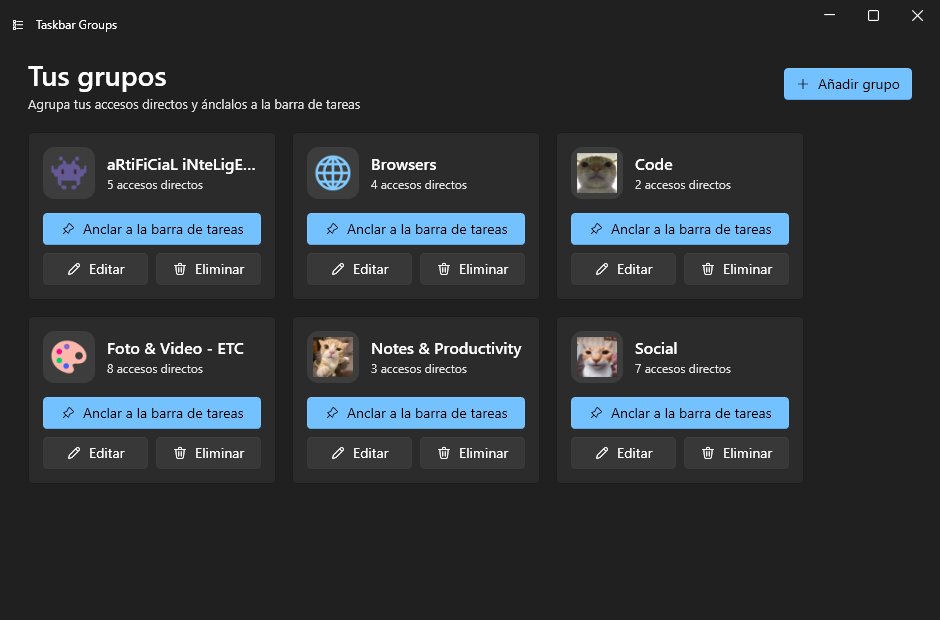
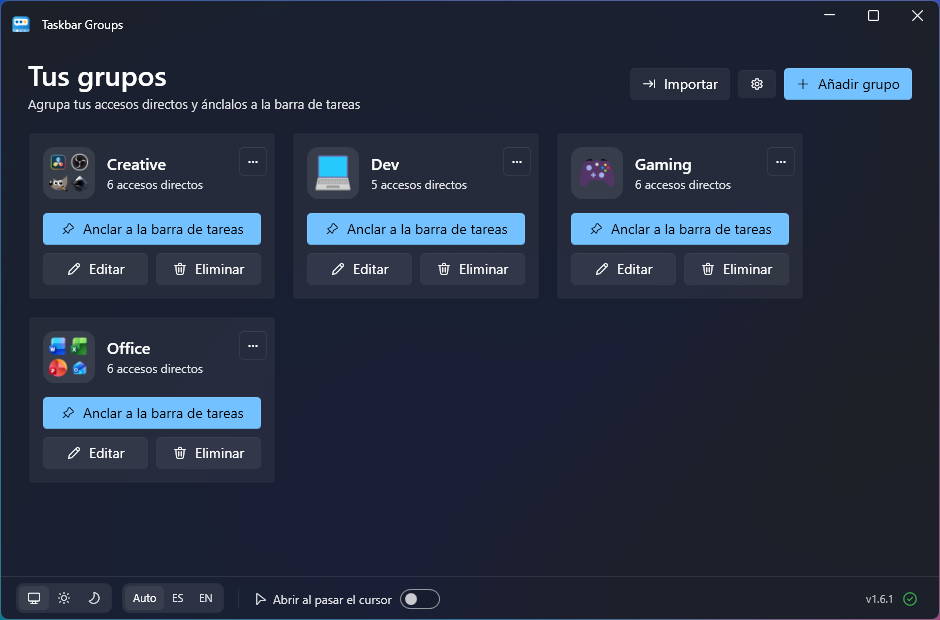
Show the real taskbar in the READMEs
The animation is now a recording of four groups pinned to a real Windows 11 taskbar instead of a drawn one, and the screenshots show the current main window with its quick bar and the group editor with its live preview. The text covers the quick bar, the right-click menu and the offline installer, and no longer sends people to Settings for open on hover.

diff --git a/README.es.md b/README.es.md
@@ -2,13 +2,13 @@
 
 <img src="brand/logo.png" width="128" height="128" alt="Logo de Taskbar Groups Fluent" />
 
-# Taskbar Groups — Fluent
+# Taskbar Groups Fluent
 
 **Agrupa tus accesos directos en un solo icono de la barra de tareas.** Una reescritura moderna en **WPF / .NET 10** de Taskbar Groups, con interfaz Fluent (estilo WinUI 3).
 
 🌍 Español · [English](README.md)
 
-**[tbgf.munito.dev](https://tbgf.munito.dev)** — míralo funcionando
+Web: **[tbgf.munito.dev](https://tbgf.munito.dev)**
 
 <p>
   <a href="https://github.com/Mun1to/TaskbarGroupsFluent/releases/latest">
@@ -26,7 +26,9 @@
   </a>
 </p>
 
-<img src="docs/screenshots/es/panel-layouts.gif" width="800" alt="El panel de un grupo con el cristal de Windows 11, cambiando entre cuadrícula, horizontal, vertical y lista" />
+<img src="docs/screenshots/panel-demo.gif" width="732" alt="Cuatro grupos anclados en una barra de tareas real de Windows 11, abriéndose uno tras otro: cuadrícula, lista, columna vertical y fila" />
+
+<sub>Grabado en una barra de tareas real de Windows 11: cuatro grupos, cada uno con su forma de panel.</sub>
 
 </div>
 
@@ -34,78 +36,69 @@
 
 ## ✨ Qué hace
 
-Taskbar Groups convierte una carpeta llena de apps en **un solo botón de la barra de tareas**. Al pulsarlo se abre un pequeño popup con todas las apps del grupo — así tu barra queda ordenada y tienes todo a un clic.
+Taskbar Groups convierte una carpeta llena de apps en **un solo botón de la barra de tareas**. Al pulsarlo se abre encima un pequeño panel con todas las apps del grupo, así tu barra queda ordenada y tienes todo a un clic.
 
-- 🧩 **Añade cualquier app instalada** — una lista buscable de *todo* lo instalado (apps de escritorio **y** de Microsoft Store), leída directamente del catálogo de apps del shell de Windows. Sin buscar el `.exe` correcto; un botón **Examinar…** cubre lo que no aparezca.
-- 🖼 **Iconos correctos, siempre** — los iconos vienen del mismo pipeline del shell que usa el Menú Inicio (alta resolución, transparentes, UWP y escritorio por igual). Cuando Windows no puede resolver uno —algunas apps Squirrel/Electron como Obsidian o Brave— tira del icono del propio ejecutable, así nunca te queda un icono en blanco.
-- 🎨 **Iconos de grupo personalizados** — sube cualquier imagen y **recórtala y haz zoom** en el editor integrado, o…
-- 😀 **…elige un emoji a color** — pulsa **Emoji** y elígelo como icono del grupo, renderizado nítido y centrado. Sin subir ninguna imagen.
-- 📌 **Ancla a la barra de tareas** — cada grupo se convierte en un botón anclado; al pulsarlo se abre el popup con tus apps.
-- 🪟 **Cristal de Windows 11, con la forma que quieras**: el panel de cada grupo tiene el cristal de verdad de Windows 11 y se abre en cuadrícula, en una fila horizontal, en una columna vertical o como lista, con o sin el nombre de las apps, en tres tamaños de icono y con el nombre del grupo arriba o abajo, con un lápiz para editarlo. El editor del grupo te enseña cómo queda mientras lo cambias.
-- 🔲 **Un icono hecho con las apps del grupo**: con un clic, el icono de la barra se hace con las cuatro primeras apps, y se actualiza solo cuando añades o quitas alguna.
-- 🚀 **Abrirlas todas de golpe**: un botón en el panel abre todas las apps del grupo.
+- 🧩 **Añade cualquier app instalada**: una lista buscable con todo lo instalado, apps de escritorio **y** de Microsoft Store, leída del propio catálogo de apps de Windows. Un botón **Examinar…** cubre lo que no aparezca.
+- 🖼 **Los iconos buenos**: salen del mismo sitio del que los saca el menú Inicio, nítidos y transparentes. Cuando Windows no tiene icono para una app (algunas apps Electron), se usa el del propio ejecutable en vez de un cuadro en blanco.
+- 🎨 **Tu propio icono de grupo**: cualquier imagen, recortada y con zoom en el editor integrado, o un **emoji a color**, o…
+- 🔲 **…un icono hecho con las apps del grupo**: con un clic, el icono de la barra se hace con las cuatro primeras apps, y se actualiza solo cuando añades o quitas alguna.
+- 📌 **Ancla a la barra de tareas**: cada grupo se convierte en su propio botón anclado.
+- 🪟 **Cristal de Windows 11, con la forma que quieras**: el panel de un grupo se abre en cuadrícula, en una fila horizontal, en una columna vertical o como lista, con o sin el nombre de las apps, en tres tamaños de icono y con el nombre del grupo arriba o abajo. El editor te enseña cómo queda mientras lo cambias.
+- 🖱 **Abrir al pasar el cursor**: actívalo en la barra rápida y un grupo se abre con solo dejar el cursor encima de su icono, sin hacer clic. Espera un momento antes de abrir, así cruzar la barra no abre nada sin querer; nunca te quita el teclado de donde estabas escribiendo; y se cierra en cuanto alejas el cursor. Viene apagado, porque deja un pequeño vigilante en la bandeja del sistema.
+- 📋 **Clic derecho en un grupo anclado** para **Abrir todas** y **Editar grupo**.
+- 🚀 **Abrirlas todas de golpe**, desde ese menú o desde el botón de la cabecera del panel.
 - 🗂 **Grupos dentro de grupos**: mete un grupo en otro y se abre en su propio panel.
 - ⚙ **Opciones por app**: cámbiale el nombre a una app dentro del grupo, pásale argumentos o ábrela como administrador.
-- 💾 **Exportar, importar y duplicar**: comparte un grupo en un solo archivo, guarda una copia o duplica uno para empezar otro.
+- 📁 **Apps y carpetas** en el mismo grupo.
+- 💾 **Exportar, importar y duplicar**: comparte un grupo en un solo archivo, guarda una copia o empieza un grupo nuevo a partir de otro.
 - 🔁 **¿Vienes de Taskbar Groups o de AppGroup?** Importa tus grupos de cualquiera de los dos y sigue como estabas.
-- 🖱 **Abrir al pasar el cursor** — actívalo en **Ajustes** y un grupo se abre con solo dejar el cursor encima de su icono, sin hacer clic. Espera un momento antes de abrir, así cruzar la barra no abre nada sin querer; nunca te quita el teclado de donde estabas escribiendo; y se cierra solo en cuanto alejas el cursor. Viene apagado: usa un pequeño vigilante en la bandeja del sistema, que puedes apagar desde ahí o desde Ajustes.
-- 🔄 **Actualización del icono en vivo** — cambia el icono de un grupo anclado y el botón de la barra se refresca solo, con un reinicio limpio del shell que no molesta a tus otros iconos anclados.
-- 📁 **Apps *y* carpetas** en el mismo grupo.
-- 🌍 **Se adapta a tu Windows** — el tema claro/oscuro **y** el color de acento, además del idioma de la interfaz (**español o inglés**), se toman de tu sistema automáticamente. Puedes forzar el idioma con la variable `TBG_LANG`.
-- ⬇ **Instalador de un clic + actualizaciones automáticas** — instala con doble clic; la app comprueba si hay versiones nuevas al abrir y se actualiza sola cuando tú quieras.
+- 🔄 **El icono de la barra sigue tus cambios**: cambia el icono de un grupo anclado y su botón se actualiza. Windows guarda esos iconos en caché, así que el Explorador se reinicia una vez; tus otros iconos anclados se quedan donde estaban.
+- 🌗 **Una barra rápida abajo en la ventana principal**: claro u oscuro, español o inglés (los dos siguen a Windows si no eliges), abrir al pasar el cursor y la versión que tienes.
+- ⬇ **Instalador y actualizaciones**: se instala con doble clic, y la app te avisa cuando hay una versión nueva y se actualiza cuando tú digas.
 
 ---
 
 ## 📸 Capturas
 
 <div align="center">
-  <img src="docs/screenshots/es/main.png" width="820" alt="Ventana principal — tus grupos" />
+  <img src="docs/screenshots/es/main.png" width="820" alt="Ventana principal con cuatro grupos y la barra rápida abajo" />
 </div>
 
-<p align="center"><em>Tus grupos de un vistazo. Cada tarjeta es un grupo que puedes anclar, editar o eliminar; el icono puede ser una imagen o un emoji.</em></p>
-
-| Editor de grupo | Selector de apps | Selector de emojis |
-| :--: | :--: | :--: |
-| <img src="docs/screenshots/es/editor.png" alt="Editor de grupo" /> | <img src="docs/screenshots/es/app-picker.png" alt="Selector de apps" /> | <img src="docs/screenshots/es/emoji-picker.png" alt="Selector de emojis" /> |
-| Ponle nombre, un icono, y añade apps o carpetas. | Todas tus apps instaladas, buscables y con su icono. | Elige un emoji a color como icono del grupo. |
-
-<br />
+<p align="center"><em>Tus grupos de un vistazo. La barra rápida de abajo tiene el tema, el idioma, abrir al pasar el cursor y la versión, con un ✓ verde cuando estás al día.</em></p>
 
 <div align="center">
-  <img src="docs/screenshots/es/flyout.png" width="440" alt="Popup en la barra de tareas" />
+  <img src="docs/screenshots/es/editor.png" width="420" alt="Editor de grupo con sus apps y la vista previa del panel" />
 </div>
 
-<p align="center"><em>Pulsa el grupo anclado en tu barra de tareas y sus apps aparecen en un popup.</em></p>
+<p align="center"><em>El editor de grupo: nombre, icono, apps y la vista previa del panel tal y como se va a abrir.</em></p>
 
-> 💡 Las imágenes en GitHub son clicables — abre cualquier captura para ampliarla.
+> 💡 Las imágenes en GitHub se pueden pulsar: abre cualquier captura para verla a tamaño completo.
 
 ---
 
 ## ⬇ Descarga e instalación
 
-1. Pulsa el botón **Descargar** de arriba — o este enlace directo: **[descargar el instalador](https://github.com/Mun1to/TaskbarGroupsFluent/releases/latest/download/TaskbarGroupsFluent-Setup.exe)**.
-2. Ejecuta el `TaskbarGroupsFluent-Setup.exe` descargado. Se instala por usuario (sin admin) y, si no tienes el **.NET 10 Desktop Runtime**, lo descarga e instala por ti.
-3. Abre **Taskbar Groups** desde el Menú Inicio. ¡Listo!
+1. Pulsa el botón **Descargar** de arriba, o usa este enlace directo: **[descargar el instalador](https://github.com/Mun1to/TaskbarGroupsFluent/releases/latest/download/TaskbarGroupsFluent-Setup.exe)**.
+2. Ejecuta `TaskbarGroupsFluent-Setup.exe`. Se instala solo para tu usuario (sin permisos de administrador) y, si falta el **.NET 10 Desktop Runtime**, lo descarga e instala.
+3. Abre **Taskbar Groups** desde el menú Inicio.
 
-> ¿Prefieres ver todas las versiones y archivos? Están en la [página de Releases](https://github.com/Mun1to/TaskbarGroupsFluent/releases/latest).
+> ¿Vas a instalarlo en un PC sin internet? `TaskbarGroupsFluent-Setup-Offline.exe`, en la [página de Releases](https://github.com/Mun1to/TaskbarGroupsFluent/releases/latest), lleva .NET dentro.
 
-> Windows puede mostrar un aviso de *"editor desconocido"* (la app aún no está firmada con un certificado de pago). Pulsa **Más información → Ejecutar de todas formas**.
+> Windows puede avisar de un *"editor desconocido"*, porque la app no está firmada con un certificado de pago. Pulsa **Más información → Ejecutar de todas formas**.
 
-## 🔄 Actualizaciones automáticas
+## 🔄 Actualizaciones
 
-Al abrirse, Taskbar Groups comprueba en GitHub si hay una versión nueva. Si la hay, te ofrece actualizar — un clic **la descarga, la instala y vuelve a abrir la app**. Sin descargar nada a mano.
+Al abrirse, la app mira en GitHub si hay una versión nueva. Abajo a la derecha de la ventana principal sale la versión que tienes, con un ✓ verde si estás al día (púlsalo para volver a mirar). Si hay una nueva pone **Actualizar ahora**: un clic la descarga, la instala y vuelve a abrir la app.
 
 ---
 
 ## 🚀 Cómo se usa
 
-1. Pulsa **Añadir grupo** y dale un **nombre** y un **icono** (sube y recorta una imagen, o pulsa **Emoji**).
-2. Añade accesos con **Aplicación** (elige cualquier app instalada de la lista buscable, o *Examinar…*) o **Carpeta**.
-3. Pulsa **Guardar grupo**.
-4. En la tarjeta del grupo, pulsa **Anclar a la barra de tareas** y sigue los 3 pasos (clic derecho en el acceso resaltado → *Mostrar más opciones* → *Anclar a la barra de tareas*). Windows 11 bloquea el anclado totalmente automático, así que este último paso lo confirmas tú.
-5. Pulsa el icono anclado para abrir el popup con tus apps.
-
-> La interfaz está en español o inglés según el idioma de Windows. Fuérzalo con la variable de entorno `TBG_LANG=es` / `TBG_LANG=en`.
+1. Pulsa **Añadir grupo** y dale un **nombre** y un **icono** (una imagen, un emoji, o **Apps** para hacerlo con las apps del grupo).
+2. Añade accesos con **Aplicación** (cualquier app instalada de la lista buscable, o *Examinar…*), **Carpeta** o **Grupo**.
+3. Elige cómo se ve su panel en **Panel** y pulsa **Guardar grupo**.
+4. En la tarjeta del grupo, pulsa **Anclar a la barra de tareas**. La app abre la carpeta con el acceso del grupo resaltado: haz clic derecho en él, luego *Mostrar más opciones* y luego *Anclar a la barra de tareas*. Windows 11 no deja que las apps se anclen solas, así que este último paso lo haces tú.
+5. Pulsa el botón anclado para abrir el panel con tus apps, o haz clic derecho para **Abrir todas** y **Editar grupo**.
 
 ---
 
@@ -119,10 +112,11 @@ cd TaskbarGroupsFluent
 dotnet build TaskbarGroupsFluent.sln -c Release
 ```
 
-Ejecuta el proyecto `TaskbarGroups.App`. Para generar una build distribuible:
+Ejecuta el proyecto `TaskbarGroups.App`. Para generar la carpeta que empaqueta el instalador:
 
 ```bash
 dotnet publish src/TaskbarGroups.App -c Release -r win-x64 --self-contained false -o dist/TaskbarGroupsFluent
+dotnet publish src/TaskbarGroups.Hover -c Release -r win-x64 --self-contained false -o dist/TaskbarGroupsFluent
 dotnet publish src/TaskbarGroups.Background -c Release -r win-x64 --self-contained false -o dist/TaskbarGroupsFluent/Background
 ```
 
@@ -130,26 +124,36 @@ El instalador se genera con [Inno Setup](https://jrsoftware.org/isinfo.php) a pa
 
 ### 🧱 Cómo funciona
 
-| Proyecto | Rol |
+| Proyecto | Qué hace |
 | --- | --- |
-| `TaskbarGroups.Core` | Lógica sin UI: modelo de datos, catálogo `AppsFolder` del shell + pipeline de iconos, interop del shell, rutas |
-| `TaskbarGroups.App` | Editor Fluent — ventana principal, editor de grupo, selectores de app y emoji, editor de recorte, updater |
-| `TaskbarGroups.Background` | El popup sin bordes que se muestra sobre la barra de tareas |
-| `TaskbarGroups.Hover` | Vigilante residente opcional para abrir al pasar el cursor, vive en la bandeja del sistema |
+| `TaskbarGroups.Core` | La lógica sin interfaz: modelo de datos, catálogo de apps de Windows e iconos, interop del shell, rutas |
+| `TaskbarGroups.App` | La app Fluent: ventana principal, editor de grupo, selectores de apps y emojis, editor de recorte, actualizador |
+| `TaskbarGroups.Background` | El panel sin bordes que sale encima de la barra de tareas |
+| `TaskbarGroups.Hover` | Vigilante opcional para abrir al pasar el cursor, vive en la bandeja del sistema |
 
-La app despliega el popup de fondo junto a sí misma; un acceso directo anclado lo lanza con el nombre del grupo como argumento.
+Cada grupo anclado es un acceso directo al panel con el nombre del grupo como argumento y su propio AppUserModelID, que es lo que hace que cada grupo sea un botón aparte en la barra.
 
 Lo del cursor no es algo que Windows ofrezca: un botón de la barra no avisa de nada cuando el cursor pasa por encima, así que el vigilante lee los botones de la barra con UI Automation y compara la posición del cursor con ellos. Solo lo hace mientras el cursor está de verdad sobre la barra, y guarda en caché lo que lee, que es lo que lo mantiene en una fracción de un uno por ciento de un núcleo cuando no pasa nada.
 
-Que abra rápido pide un truco más. Arrancar un popup en frío significa cargar .NET, luego WPF, y luego pintar una ventana por primera vez: casi un segundo, por poco que haga el popup. Así que cuando el cursor se acerca a la barra, el vigilante carga uno por adelantado y lo deja escondido, listo para salir en unos cincuenta milisegundos; un popup cargado ocupa memoria de verdad, así que se suelta en cuanto el cursor lleva un rato lejos. El vigilante en sí se mantiene pequeño todo el tiempo.
+Que abra rápido pide un truco más. Arrancar un panel en frío significa cargar .NET, luego WPF, y luego pintar una ventana por primera vez: casi un segundo, por poco que haga el panel. Así que cuando el cursor se acerca a la barra, el vigilante carga uno por adelantado y lo deja escondido, listo para salir en unos cincuenta milisegundos; un panel cargado ocupa memoria de verdad, así que se suelta en cuanto el cursor lleva un rato lejos.
 
 ## 🙏 Créditos
 
 Construido sobre el trabajo de:
 
-- [tjackenpacken/taskbar-groups](https://github.com/tjackenpacken/taskbar-groups) — la app original.
-- [PikeNote/taskbar-groups-pike-beta](https://github.com/PikeNote/taskbar-groups-pike-beta) — fork de la comunidad cuya estructura sirvió de base a esta reescritura.
-- [WPF-UI](https://github.com/lepoco/wpfui) — la librería de controles Fluent · [SkiaSharp](https://github.com/mono/SkiaSharp) — renderizado de emojis a color.
+- [tjackenpacken/taskbar-groups](https://github.com/tjackenpacken/taskbar-groups), la app original.
+- [PikeNote/taskbar-groups-pike-beta](https://github.com/PikeNote/taskbar-groups-pike-beta), el fork de la comunidad cuya estructura sirvió de base a esta reescritura.
+- [WPF-UI](https://github.com/lepoco/wpfui), la librería de controles Fluent, y [SkiaSharp](https://github.com/mono/SkiaSharp), para los emojis a color.
+
+## 🔍 No te fíes, compruébalo
+
+El código abierto solo sirve si alguien lo lee, y casi nadie lo hace. Así que en vez de
+pedirte que te fíes de este proyecto, aquí tienes el texto para comprobarlo: pásaselo a tu
+propia IA junto con este repositorio y en unos minutos tendrás un informe de seguridad en tu
+idioma, aunque no sepas programar.
+
+**[Abre AI-AUDIT.md](AI-AUDIT.md)** y pégalo en Claude Code, Codex, Cursor, Copilot o lo que
+uses. Es el mismo texto en todos los repositorios públicos de aquí, así que puedes comparar.
 
 ## 📜 Licencia
 

diff --git a/README.md b/README.md
@@ -2,13 +2,13 @@
 
 <img src="brand/logo.png" width="128" height="128" alt="Taskbar Groups Fluent logo" />
 
-# Taskbar Groups — Fluent
+# Taskbar Groups Fluent
 
 **Group your shortcuts into a single taskbar icon.** A modern **WPF / .NET 10** rewrite of Taskbar Groups, with a Fluent (WinUI 3-style) interface.
 
 🌍 [Español](README.es.md) · English
 
-**[tbgf.munito.dev](https://tbgf.munito.dev)** — see it in action
+Website: **[tbgf.munito.dev](https://tbgf.munito.dev)**
 
 <p>
   <a href="https://github.com/Mun1to/TaskbarGroupsFluent/releases/latest">
@@ -26,7 +26,9 @@
   </a>
 </p>
 
-<img src="docs/screenshots/en/panel-layouts.gif" width="800" alt="A group's panel with Windows 11 glass, switching between grid, horizontal, vertical and list layouts" />
+<img src="docs/screenshots/panel-demo.gif" width="732" alt="Four groups pinned to a real Windows 11 taskbar, opened one after another: a grid, a list, a vertical column and a row" />
+
+<sub>Recorded on a real Windows 11 taskbar: four groups, each with its own panel layout.</sub>
 
 </div>
 
@@ -34,78 +36,69 @@
 
 ## ✨ What it does
 
-Taskbar Groups turns a folder-worth of apps into **one taskbar button**. Click it and a small flyout pops up with every app in the group — so your taskbar stays tidy and everything you need is one click away.
+Taskbar Groups turns a folder's worth of apps into **one taskbar button**. Click it and a small panel opens above it with every app in the group, so your taskbar stays tidy and everything you need is one click away.
 
-- 🧩 **Add any installed app** — one searchable list of *everything* installed (desktop **and** Microsoft Store apps), read straight from the Windows shell app catalog. No hunting for the right `.exe`; a **Browse…** button covers anything unlisted.
-- 🖼 **Correct icons, always** — icons come from the same shell pipeline the Start Menu uses (high-res, transparent, UWP and desktop alike). When Windows can't resolve one — some Squirrel/Electron apps like Obsidian or Brave — it falls back to the app's own executable icon, so you never get a blank placeholder.
-- 🎨 **Custom group icons** — upload any image and **crop & zoom** it in the built-in editor, or…
-- 😀 **…pick a colour emoji** — hit **Emoji** and choose one as the group icon, rendered crisp and centred. No image needed.
-- 📌 **Pin to the taskbar** — each group becomes a pinned button; clicking it opens the flyout with your apps.
-- 🪟 **Windows 11 glass, laid out your way**: every group's panel has real Windows 11 glass and opens as a grid, a horizontal row, a vertical column or a list, with or without app names, in three icon sizes, and with the group's name above or below with a pencil to edit it. The group editor shows a live preview as you change it.
-- 🔲 **An icon made of the group's apps**: one click builds the taskbar icon from the first four apps in the group, and it keeps up as you add or remove them.
-- 🚀 **Open them all at once**: a button in the panel opens every app in the group.
+- 🧩 **Add any installed app**: one searchable list of everything installed, desktop **and** Microsoft Store apps, read from Windows' own app catalog. A **Browse…** button covers anything that isn't listed.
+- 🖼 **The right icons**: they come from the same place the Start menu takes them from, sharp and transparent. When Windows has none for an app (some Electron apps), the app's own executable icon is used instead of a blank square.
+- 🎨 **Your own group icon**: any image, cropped and zoomed in the built-in editor, or a **colour emoji**, or…
+- 🔲 **…an icon made of the group's apps**: one click builds the taskbar icon from the first four apps in the group, and it keeps up as you add or remove them.
+- 📌 **Pin to the taskbar**: each group becomes its own pinned button.
+- 🪟 **Windows 11 glass, laid out your way**: a group's panel opens as a grid, a horizontal row, a vertical column or a list, with or without app names, in three icon sizes, with the group's name above or below. The editor shows a live preview as you change it.
+- 🖱 **Open on hover**: switch it on in the quick bar and a group opens when the cursor rests on its icon, no click needed. It waits a moment so crossing the taskbar never opens anything by accident, it never takes the keyboard away from what you were typing in, and it closes as soon as the cursor leaves. Off by default, because it keeps a small watcher in the notification area.
+- 📋 **Right-click a pinned group** for **Open all** and **Edit group**.
+- 🚀 **Open them all at once**, from that menu or from the button in the panel's header.
 - 🗂 **Groups inside groups**: add a group to another and it opens in its own panel.
 - ⚙ **Per-app options**: rename an app inside a group, give it launch arguments or run it as administrator.
-- 💾 **Export, import and duplicate**: share a group as a single file, keep a backup, or copy one as the start of a new one.
+- 📁 **Apps and folders** in the same group.
+- 💾 **Export, import and duplicate**: share a group as a single file, keep a backup, or start a new group from a copy.
 - 🔁 **Coming from Taskbar Groups or AppGroup?** Import your groups from either one and carry on.
-- 🖱 **Open on hover** — turn it on in **Settings** and a group opens by resting the cursor on its icon, no click at all. It waits a moment first so crossing the taskbar never opens anything by accident, it never takes the keyboard away from what you were typing in, and it closes itself as soon as the cursor leaves. Off by default: it runs a small watcher in the notification area, which you can switch off from there or from Settings.
-- 🔄 **Live taskbar updates** — change a pinned group's icon and the taskbar button refreshes itself, with a clean shell restart that won't disturb your other pinned icons.
-- 📁 **Apps *and* folders** in the same group.
-- 🌍 **Follows your Windows look** — light/dark theme **and** accent colour, plus the interface language (**English or Spanish**) are picked up from your system automatically. Override the language with the `TBG_LANG` variable.
-- ⬇ **One-click installer + automatic updates** — install with a double-click; the app checks for new versions on launch and updates itself when you say so.
+- 🔄 **The taskbar icon follows your changes**: change a pinned group's icon and its button updates. Windows caches those icons, so this restarts Explorer once; your other pinned icons stay where they are.
+- 🌗 **A quick bar at the bottom of the main window**: light or dark, English or Spanish (both follow Windows unless you pick one), open on hover, and the version you have.
+- ⬇ **Installer and updates**: install with a double click, and the app tells you when there is a new version and updates itself when you say so.
 
 ---
 
 ## 📸 Screenshots
 
 <div align="center">
-  <img src="docs/screenshots/en/main.png" width="820" alt="Main window — your groups" />
+  <img src="docs/screenshots/en/main.png" width="820" alt="Main window with four groups and the quick bar at the bottom" />
 </div>
 
-<p align="center"><em>Your groups at a glance. Each card is a group you can pin, edit or delete; the icon can be an image or an emoji.</em></p>
-
-| Group editor | App picker | Emoji picker |
-| :--: | :--: | :--: |
-| <img src="docs/screenshots/en/editor.png" alt="Group editor" /> | <img src="docs/screenshots/en/app-picker.png" alt="App picker" /> | <img src="docs/screenshots/en/emoji-picker.png" alt="Emoji picker" /> |
-| Name it, set an icon, and add apps or folders. | Every installed app, searchable, with the right icon. | Pick a colour emoji as the group icon. |
-
-<br />
+<p align="center"><em>Your groups at a glance. The quick bar at the bottom holds the theme, the language, open on hover and the version, with a green tick when you are up to date.</em></p>
 
 <div align="center">
-  <img src="docs/screenshots/en/flyout.png" width="440" alt="Taskbar flyout" />
+  <img src="docs/screenshots/en/editor.png" width="420" alt="Group editor with the group's apps and a live preview of its panel" />
 </div>
 
-<p align="center"><em>Click the pinned group on your taskbar and its apps appear in a flyout.</em></p>
+<p align="center"><em>The group editor: name, icon, apps, and a live preview of the panel as it will open.</em></p>
 
-> 💡 Images on GitHub are clickable — open any screenshot to zoom in.
+> 💡 Images on GitHub are clickable: open any screenshot to see it full size.
 
 ---
 
 ## ⬇ Download & install
 
-1. Click the **Download** button above — or this direct link: **[download the installer](https://github.com/Mun1to/TaskbarGroupsFluent/releases/latest/download/TaskbarGroupsFluent-Setup.exe)**.
-2. Run the downloaded `TaskbarGroupsFluent-Setup.exe`. It installs per-user (no admin needed) and, if you don't already have the **.NET 10 Desktop Runtime**, downloads and installs it for you.
-3. Launch **Taskbar Groups** from the Start Menu. Done!
+1. Click the **Download** button above, or use this direct link: **[download the installer](https://github.com/Mun1to/TaskbarGroupsFluent/releases/latest/download/TaskbarGroupsFluent-Setup.exe)**.
+2. Run `TaskbarGroupsFluent-Setup.exe`. It installs for your user only (no admin needed) and, if the **.NET 10 Desktop Runtime** is missing, downloads and installs it.
+3. Open **Taskbar Groups** from the Start menu.
 
-> Prefer to see all versions and files? They're on the [Releases page](https://github.com/Mun1to/TaskbarGroupsFluent/releases/latest).
+> Installing on a PC without internet? `TaskbarGroupsFluent-Setup-Offline.exe`, on the [Releases page](https://github.com/Mun1to/TaskbarGroupsFluent/releases/latest), carries the .NET runtime inside.
 
-> Windows may show an *"unknown publisher"* warning (the app isn't signed with a paid certificate yet). Click **More info → Run anyway**.
+> Windows may warn about an *"unknown publisher"*, because the app isn't signed with a paid certificate. Click **More info → Run anyway**.
 
-## 🔄 Automatic updates
+## 🔄 Updates
 
-On launch, Taskbar Groups checks GitHub for a newer version. If there is one, it offers to update — one click **downloads and installs it, then reopens the app**. No manual re-downloading.
+On launch, the app checks GitHub for a newer version. The bottom right corner of the main window shows the version you have, with a green tick when you are up to date (click it to check again). When there is a new one it says **Update now**: one click downloads it, installs it and reopens the app.
 
 ---
 
 ## 🚀 How to use it
 
-1. Click **Add group** and give it a **name** and an **icon** (upload & crop an image, or hit **Emoji**).
-2. Add shortcuts with **App** (pick any installed app from the searchable list, or *Browse…*) or **Folder**.
-3. Click **Save group**.
-4. On the group's card, click **Pin to taskbar** and follow the 3 steps (right-click the highlighted shortcut → *Show more options* → *Pin to taskbar*). Windows 11 blocks fully automatic pinning, so this last step is yours to confirm.
-5. Click the pinned icon to open the flyout with your apps.
-
-> The interface is English or Spanish depending on your Windows display language. Force it with the `TBG_LANG=en` / `TBG_LANG=es` environment variable.
+1. Click **Add group** and give it a **name** and an **icon** (an image, an emoji, or **Apps** to build it from the group's apps).
+2. Add shortcuts with **App** (any installed app from the searchable list, or *Browse…*), **Folder** or **Group**.
+3. Choose how its panel looks under **Panel**, and click **Save group**.
+4. On the group's card, click **Pin to taskbar**. The app opens the folder with the group's shortcut highlighted: right-click it, then *Show more options*, then *Pin to taskbar*. Windows 11 doesn't let apps pin themselves, so this last step is yours.
+5. Click the pinned button to open the panel with your apps, or right-click it for **Open all** and **Edit group**.
 
 ---
 
@@ -119,10 +112,11 @@ cd TaskbarGroupsFluent
 dotnet build TaskbarGroupsFluent.sln -c Release
 ```
 
-Run the `TaskbarGroups.App` project. To produce a distributable build:
+Run the `TaskbarGroups.App` project. To produce the folder the installer packs:
 
 ```bash
 dotnet publish src/TaskbarGroups.App -c Release -r win-x64 --self-contained false -o dist/TaskbarGroupsFluent
+dotnet publish src/TaskbarGroups.Hover -c Release -r win-x64 --self-contained false -o dist/TaskbarGroupsFluent
 dotnet publish src/TaskbarGroups.Background -c Release -r win-x64 --self-contained false -o dist/TaskbarGroupsFluent/Background
 ```
 
@@ -132,24 +126,24 @@ The installer is built with [Inno Setup](https://jrsoftware.org/isinfo.php) from
 
 | Project | Role |
 | --- | --- |
-| `TaskbarGroups.Core` | UI-agnostic logic: data model, shell `AppsFolder` catalog + icon pipeline, shell interop, paths |
-| `TaskbarGroups.App` | Fluent editor — main window, group editor, app & emoji pickers, icon crop editor, updater |
-| `TaskbarGroups.Background` | The borderless flyout shown above the taskbar |
-| `TaskbarGroups.Hover` | Optional resident watcher for open-on-hover, living in the notification area |
+| `TaskbarGroups.Core` | UI-agnostic logic: data model, Windows' app catalog and icons, shell interop, paths |
+| `TaskbarGroups.App` | The Fluent app: main window, group editor, app and emoji pickers, icon crop editor, updater |
+| `TaskbarGroups.Background` | The borderless panel shown above the taskbar |
+| `TaskbarGroups.Hover` | Optional watcher for open on hover, living in the notification area |
 
-The app deploys the background flyout next to itself; a pinned shortcut launches it with the group name as its argument.
+Each pinned group is a shortcut to the panel with the group's name as its argument, and its own AppUserModelID, which is what keeps every group as a separate taskbar button.
 
-Hovering is not something Windows offers: a taskbar button reports nothing when the cursor is over it, so the watcher reads the taskbar's buttons through UI Automation and polls the cursor against them. It only does that while the cursor is actually on the taskbar, and caches what it reads, which is what keeps it at a fraction of a percent of one core while idle.
+Hovering is not something Windows offers: a taskbar button reports nothing when the cursor is over it, so the watcher reads the taskbar's buttons through UI Automation and checks the cursor against them. It only does that while the cursor is actually on the taskbar, and caches what it reads, which keeps it at a fraction of a percent of one core while idle.
 
-Opening quickly takes one more trick. Starting a flyout from cold means loading .NET, then WPF, then painting a window for the first time, and that is most of a second no matter how little work the flyout itself does. So as the cursor comes near the taskbar the watcher loads one in advance and keeps it hidden, ready to be shown in about fifty milliseconds; a loaded flyout holds real memory, so it is let go again once the cursor has been away for a while. The watcher itself stays small throughout.
+Opening quickly takes one more trick. Starting a panel from cold means loading .NET, then WPF, then painting a window for the first time, and that is most of a second however little the panel does. So as the cursor comes near the taskbar the watcher loads one in advance and keeps it hidden, ready to be shown in about fifty milliseconds; a loaded panel holds real memory, so it is let go once the cursor has been away for a while.
 
 ## 🙏 Credits
 
 Built on the work of:
 
-- [tjackenpacken/taskbar-groups](https://github.com/tjackenpacken/taskbar-groups) — the original app.
-- [PikeNote/taskbar-groups-pike-beta](https://github.com/PikeNote/taskbar-groups-pike-beta) — community fork whose structure this rewrite started from.
-- [WPF-UI](https://github.com/lepoco/wpfui) — the Fluent control library · [SkiaSharp](https://github.com/mono/SkiaSharp) — colour-emoji rendering.
+- [tjackenpacken/taskbar-groups](https://github.com/tjackenpacken/taskbar-groups), the original app.
+- [PikeNote/taskbar-groups-pike-beta](https://github.com/PikeNote/taskbar-groups-pike-beta), the community fork whose structure this rewrite started from.
+- [WPF-UI](https://github.com/lepoco/wpfui), the Fluent control library, and [SkiaSharp](https://github.com/mono/SkiaSharp), for colour emoji.
 
 ## 🔍 Don't trust it, check it
 
